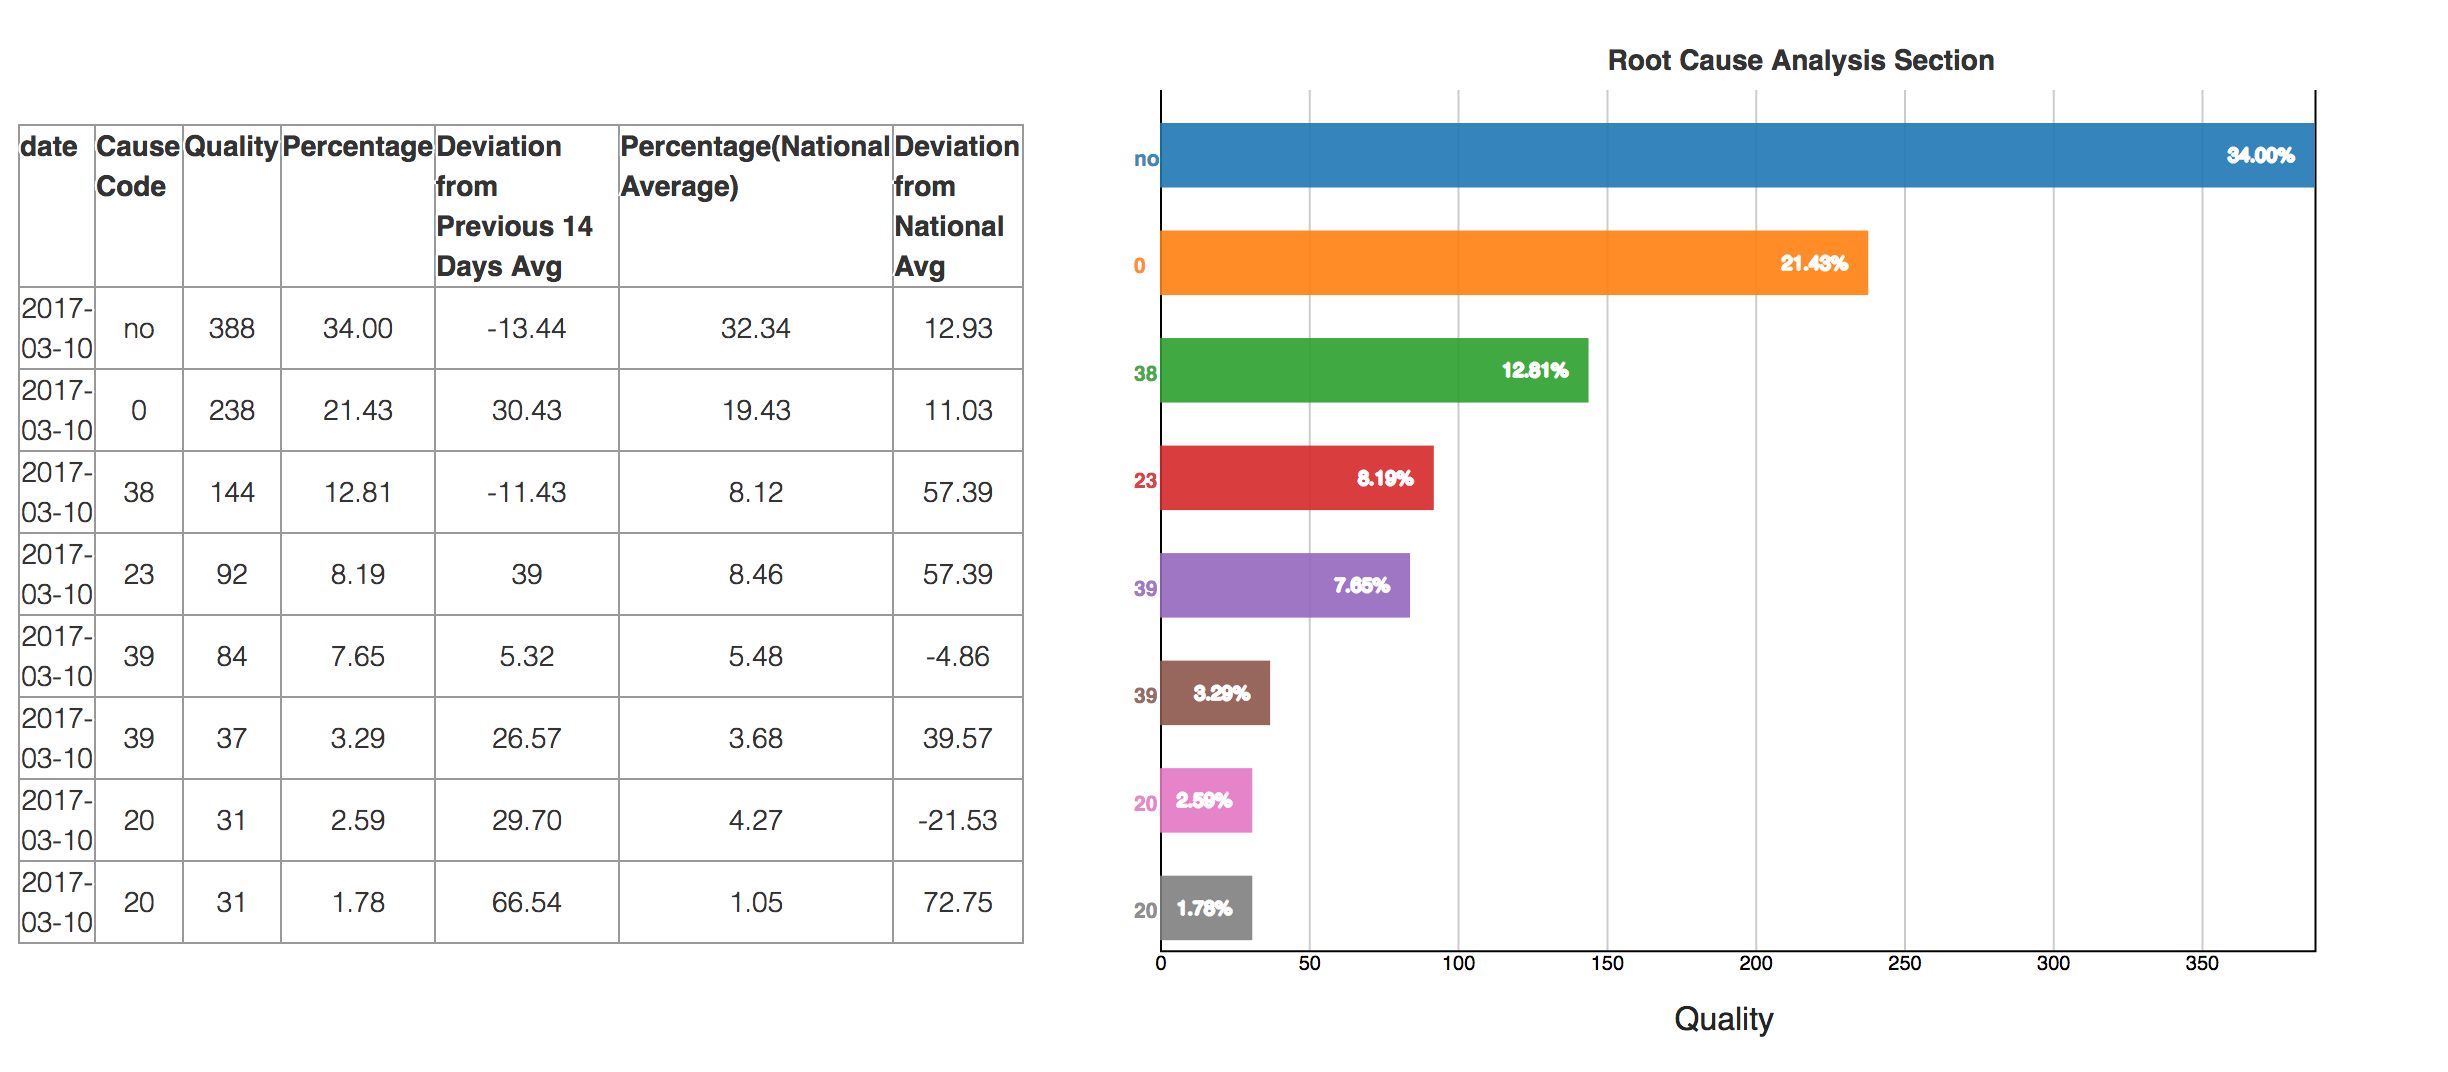
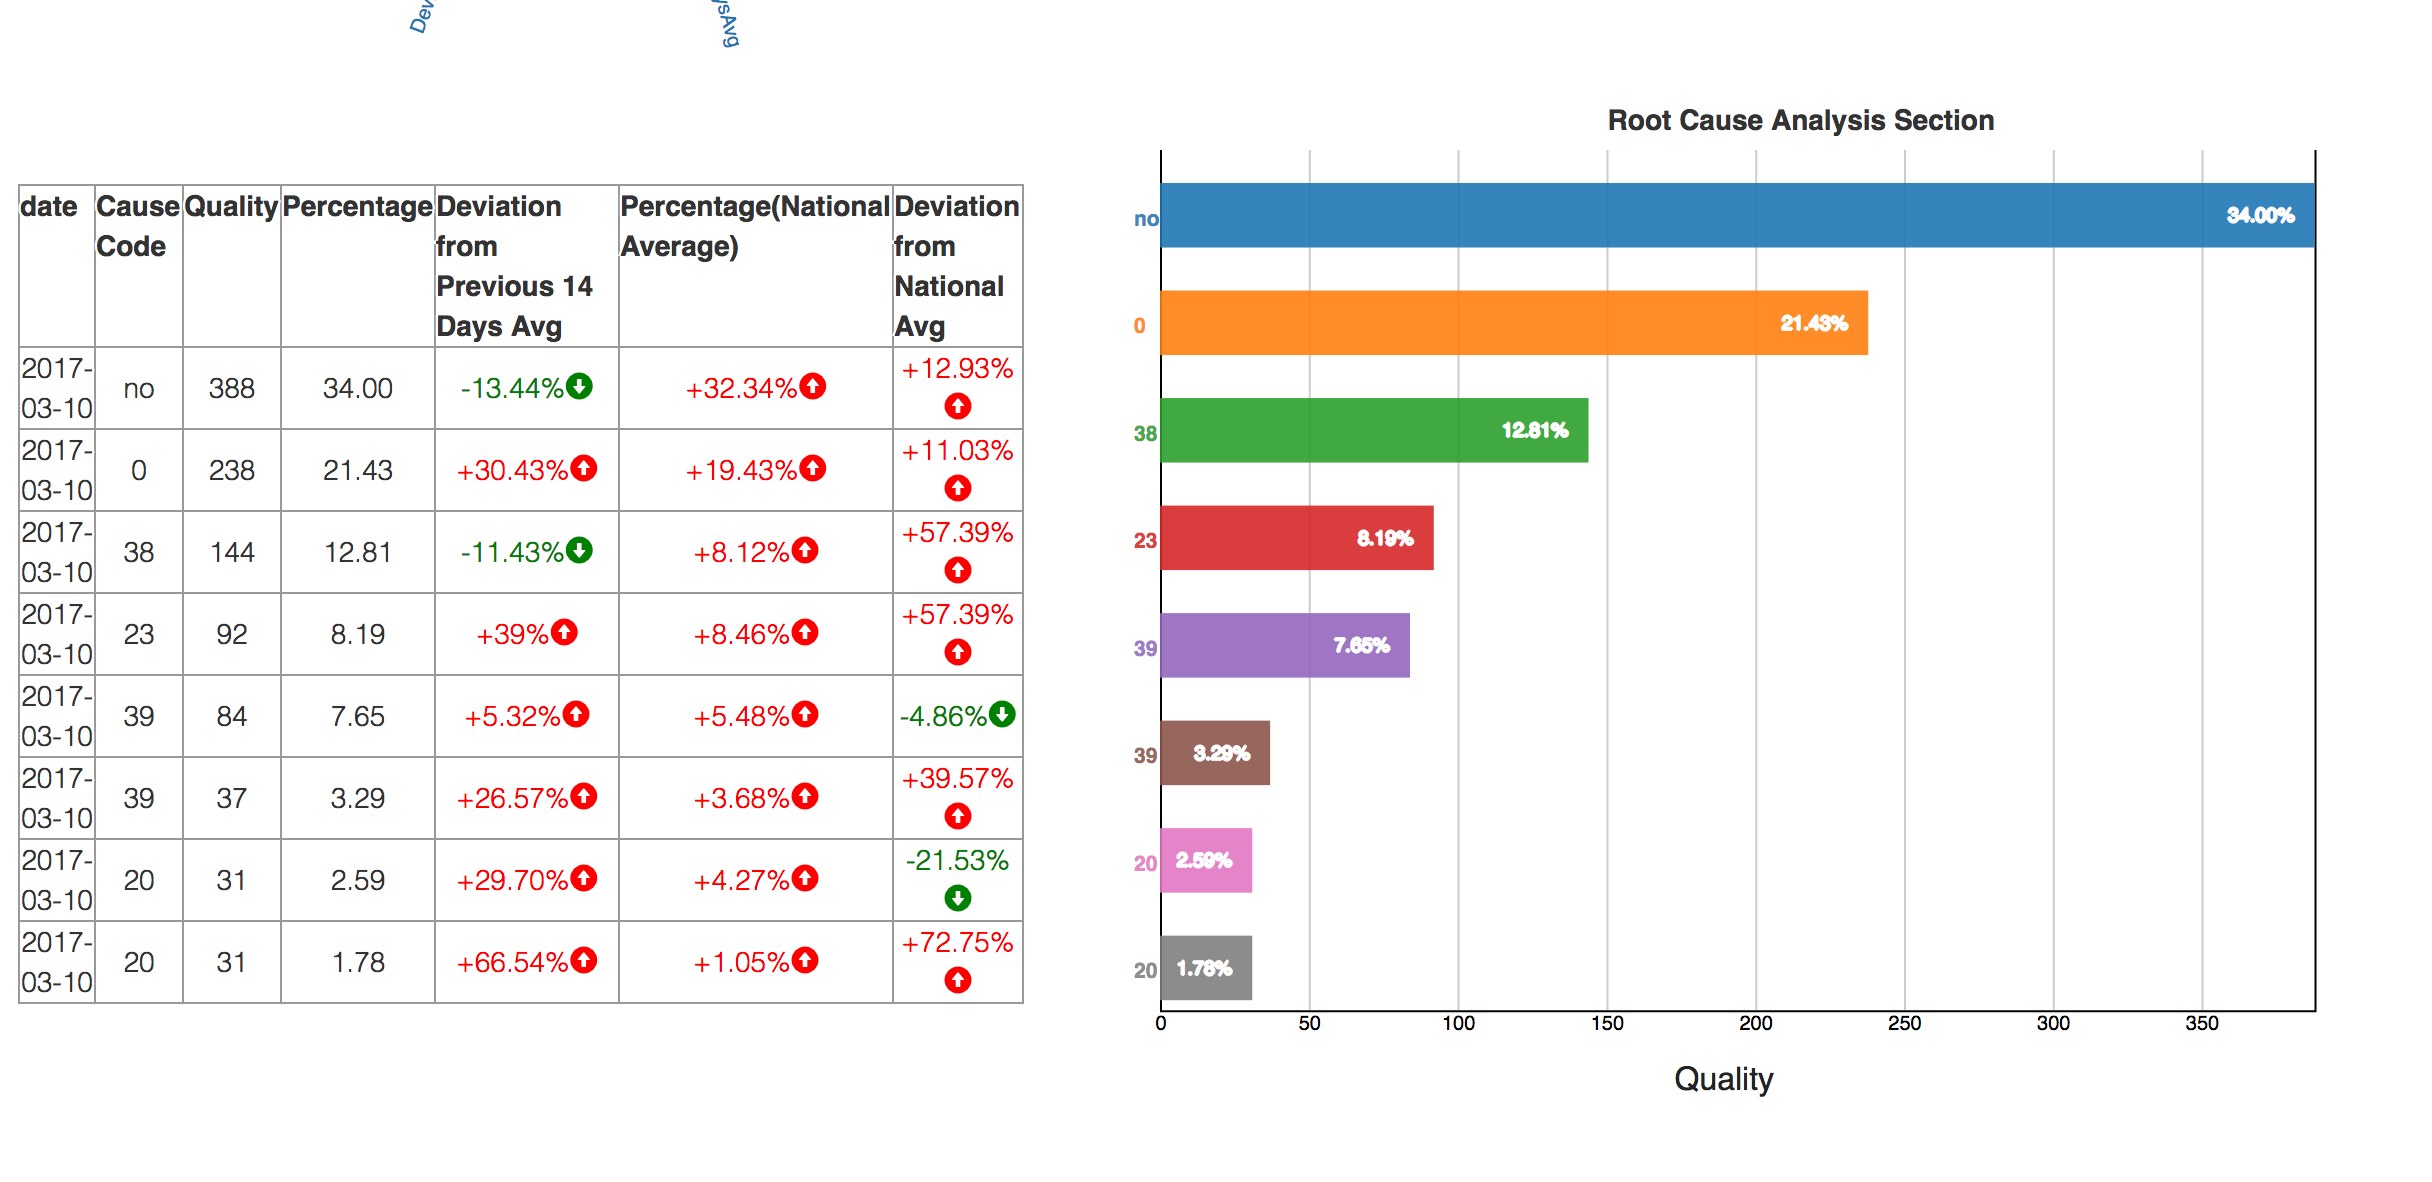
update table

diff --git a/radialtree.js b/radialtree.js
@@ -54,7 +54,7 @@ var tree = d3.tree()
     .separation(function(a, b) { return (a.parent == b.parent ? 1 : 2) / a.depth; });
 var color = d3.scaleOrdinal(d3.schemeCategory10);
 
-d3.csv("/public/data.csv", function(error, data) {
+d3.csv("public/data.csv", function(error, data) {
   if (error) throw error;
 
   var root = tree(stratify(data));
@@ -96,6 +96,7 @@ function project(x, y) {
 radialtree();
 
 function tabulate(data, columns) {
+    var Format = d3.format('%')
     var table = d3.select('.table1').append('table')
     var thead = table.append('thead')
     var tbody = table.append('tbody');
@@ -113,7 +114,7 @@ function tabulate(data, columns) {
     var rows = tbody.selectAll('tr')
         .data(data)
         .enter()
-        .append('tr');
+        .append('tr')
 
     // create a cell in each row for each column
     var cells = rows.selectAll('td')
@@ -127,9 +128,33 @@ function tabulate(data, columns) {
         })
         .enter()
         .append('td')
-        .text(function(d) {
+        .attr('class', function(d,i){ return "col_" + i; })
+        .text(function(d){
             return d.value;
         });
+
+    var colorcells = d3.selectAll(".col_4, .col_5, .col_6")
+          .text(function(d){
+            if(d.value>0){return("+" + d.value + "%" );}
+            else if(d.value<0){return(d.value + "%")}
+          })
+          .style("color", function(d){
+            if(d.value>0){return "red"}
+            else{return "green"}})
+          .append('span')
+          .attr('class',function(d){
+            if(d.value>0){return 'glyphicon glyphicon-circle-arrow-up'}
+            else{return 'glyphicon glyphicon-circle-arrow-down'}
+           })
+          .style("color", function(d){
+            if(d.value>0){return "red"}
+            else{return "green"}
+          });
+
+
+
+        // rows.selectAll("#Deviation from Previous 14 Days Avg")
+        // .selectAll('td').style("color","blue");
 
     return table;
 }

diff --git a/barchart.js b/barchart.js
@@ -178,9 +178,20 @@ function tabulate(data, columns) {
         })
         .enter()
         .append('td')
+        .attr('class', function(d,i){ return "col_" + i; })
         .text(function(d) {
             return d.value;
         });
+
+    var colorcells = d3.selectAll(".col_4, .col_5, .col_6")
+        .text(function(d){
+          if(d.value>0){return("+" + d.value + "%")}
+        })
+        .style("color", function(d) {
+            if (d.value > 0) {return "red"}
+            else {return "green"}
+        });
+
 
     return table;
 }

diff --git a/README.md b/README.md
@@ -1,4 +1,5 @@
 # Report-with-SVG-and-D3
 #### Download the files and run on server
-![](assets/1.png)
+
 ![](assets/2.png)
+![](assets/1.png)
